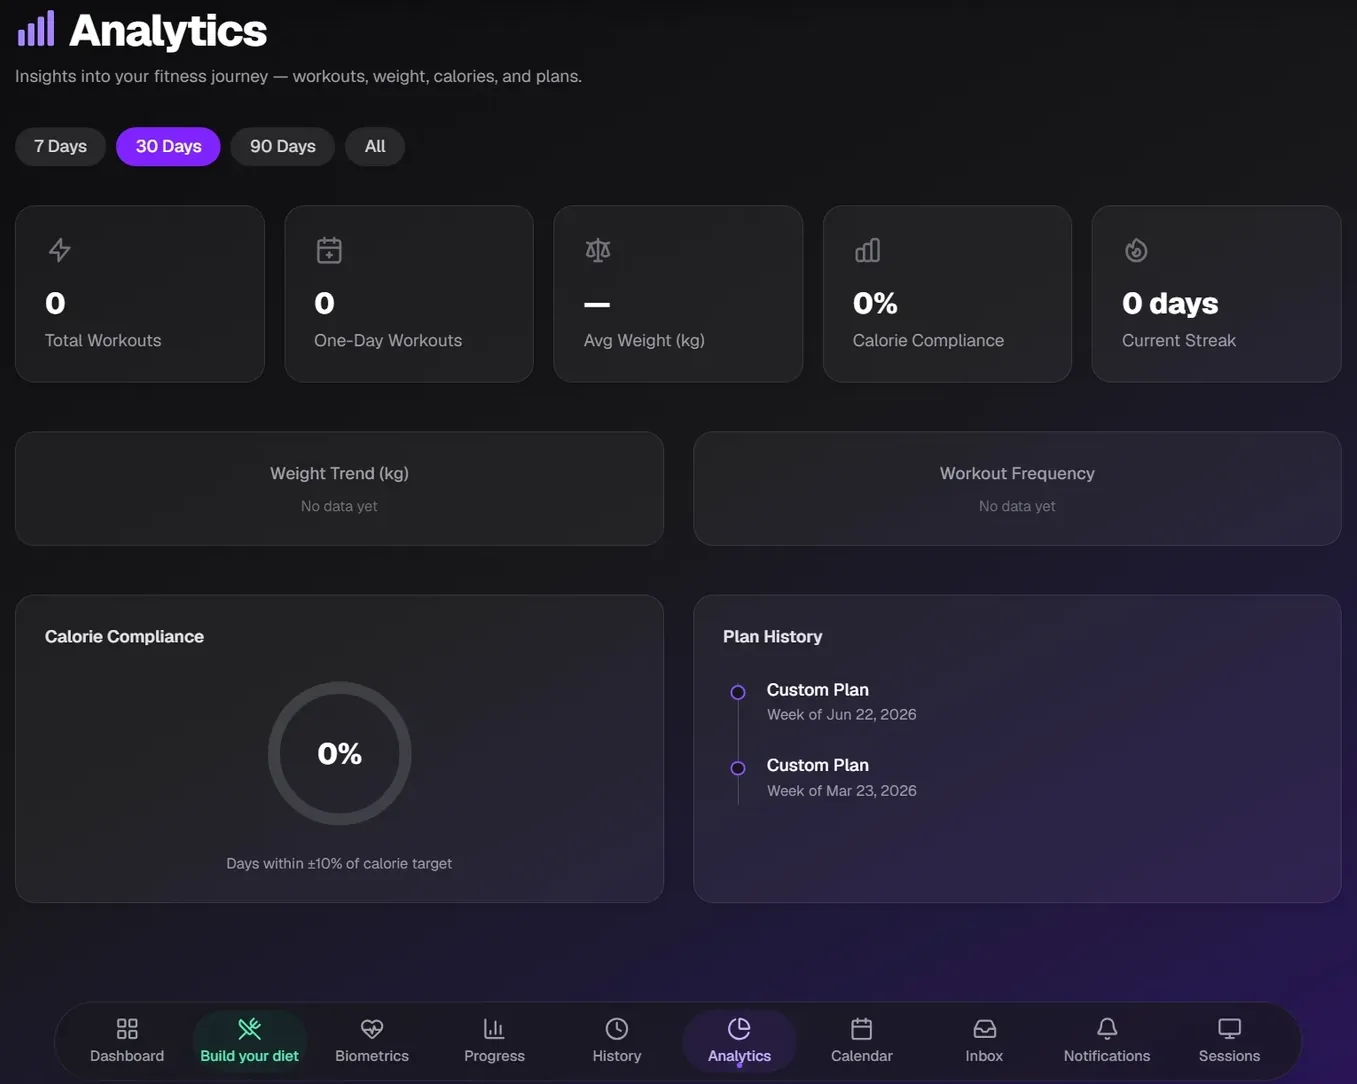
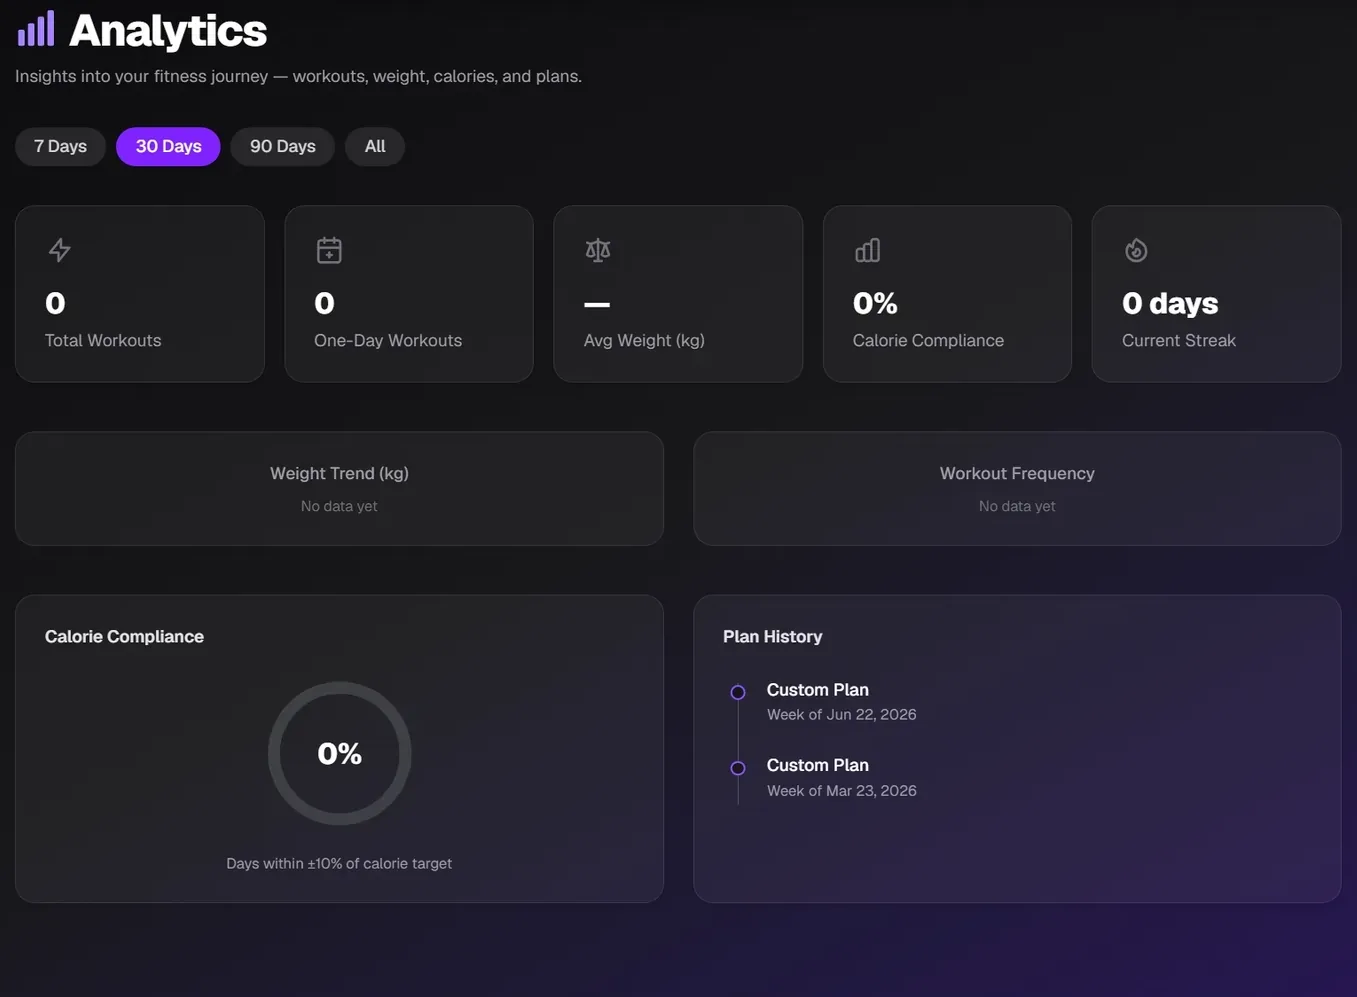
Snap the plates toward one proportion
Ten captures with ten different aspect ratios stacked into a ragged column of
plate heights, which is the opposite of the almanac idiom the layout is built
on. A strict two-ratio set is not reachable by cropping, and that is worth
stating rather than forcing: 16:10 on the chart capture costs 97px of the natal
wheel, and the workout view's content column is genuinely portrait.

So each plate is snapped to 16:10 only where the trim is margin or chrome:

- ashtakavarga: trims the panel's top hairline rather than 19px of the footnote
  box, which is the part a reader would actually check.
- report, lagna-atelier, dashboard, onboarding: dead margin only.
- robust-health: extends into the page ground below the stats panel, which is
  symmetric with the margin already at the top.
- tools: 2px, landing the one strip on exactly 10:3.
- analytics: drops the floating tab bar. It is chrome, and the dashboard
  capture already shows the same bar. Leaves 1.36 -- forcing 4:3 from there
  would shave the cards' outer edges.

Chart holds at 1.45 and workout at exactly 2:3, both deliberate. The landscape
set now spans 1.36-1.67 with four plates exactly at 16:10, against 1.05-3.19
across ten distinct values before any of this. Media weight is down to 442 KB
from the 528 KB this started at.

diff --git a/lib/content.ts b/lib/content.ts
@@ -103,7 +103,7 @@ export const content: SiteContent = {
           alt: "The Lagna Atelier chart builder: a four-step birth-details form beside a live sky preview panel.",
           caption:
             "A four-step birth-details form, with the sky preview resolving beside it as each field is entered. There is no submit step: the chart is computed in the browser as the form fills.",
-          width: 1559,
+          width: 1542,
           height: 964,
         },
         {
@@ -122,7 +122,7 @@ export const content: SiteContent = {
           caption:
             "Every house scored against the 28.1-bindu average rather than against a maximum, with the first house broken out at 92.6% of it. The footnote flags that these twelve total 367 against a 337 pool — a discrepancy reported rather than smoothed over.",
           width: 1571,
-          height: 1001,
+          height: 982,
         },
         {
           kind: "image",
@@ -130,7 +130,7 @@ export const content: SiteContent = {
           alt: "The Lagna Atelier report index, listing placements, dasha periods, twenty divisional charts from D1 to D60, and the matched findings.",
           caption:
             "Placements, calculation settings and dasha periods across the top. Below them, all twenty vargas from D1 to D60 and the fourteen matched findings, each behind its own view rather than stacked into one scrolling report.",
-          width: 1545,
+          width: 1538,
           height: 961,
         },
         {
@@ -140,7 +140,7 @@ export const content: SiteContent = {
           caption:
             "Where a finished reading hands off: today's transits against the natal chart, a two-profile partner comparison, or the wider specialist list. Each continues from the reading rather than repeating it.",
           width: 1600,
-          height: 482,
+          height: 480,
         },
       ],
       // TODO: still worth recording the palm-reading flow as a clip — it is the
@@ -185,7 +185,7 @@ export const content: SiteContent = {
           caption:
             "The public landing page. Everything past it sits behind sign-in, so the plates below are captured from inside an account.",
           width: 1569,
-          height: 963,
+          height: 981,
         },
         {
           kind: "image",
@@ -194,7 +194,7 @@ export const content: SiteContent = {
           caption:
             "Two ways in: a three-to-five minute questionnaire that generates a tailored first week, or a ready-made programme with optional body details for nutrition targets. Switching between them keeps whatever has already been entered.",
           width: 1041,
-          height: 713,
+          height: 701,
         },
         {
           kind: "image",
@@ -202,7 +202,7 @@ export const content: SiteContent = {
           alt: "The Robust Health member dashboard, showing the next workout beside a five-session week and the active programme's day, calorie and sleep targets.",
           caption:
             "The next session up front, the week's five workouts listed beside it, and the active Push/Pull/Legs programme below with its day count, calorie and sleep targets.",
-          width: 1098,
+          width: 1054,
           height: 631,
         },
         {
@@ -221,7 +221,7 @@ export const content: SiteContent = {
           caption:
             "Captured on a new account, so every figure reads zero and both trend charts are empty. Weight, workout frequency and calorie compliance populate from logged sessions; plan history is already listing two.",
           width: 1357,
-          height: 1084,
+          height: 997,
         },
       ],
     },
